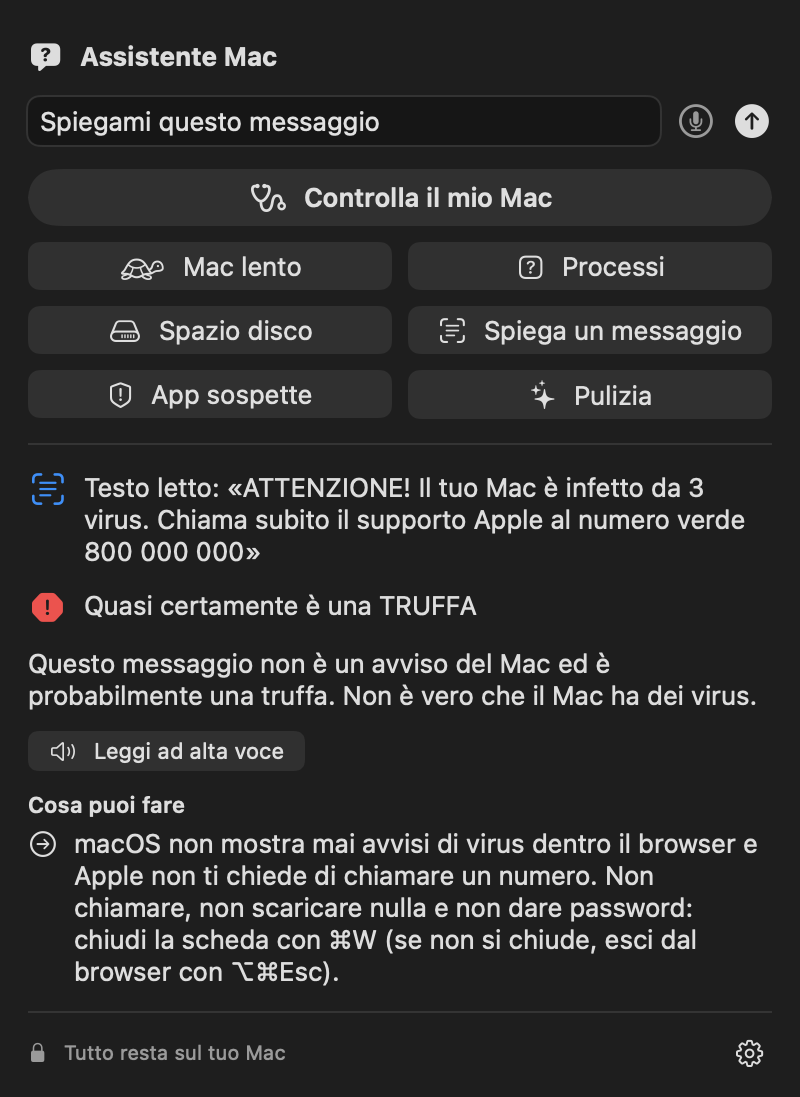
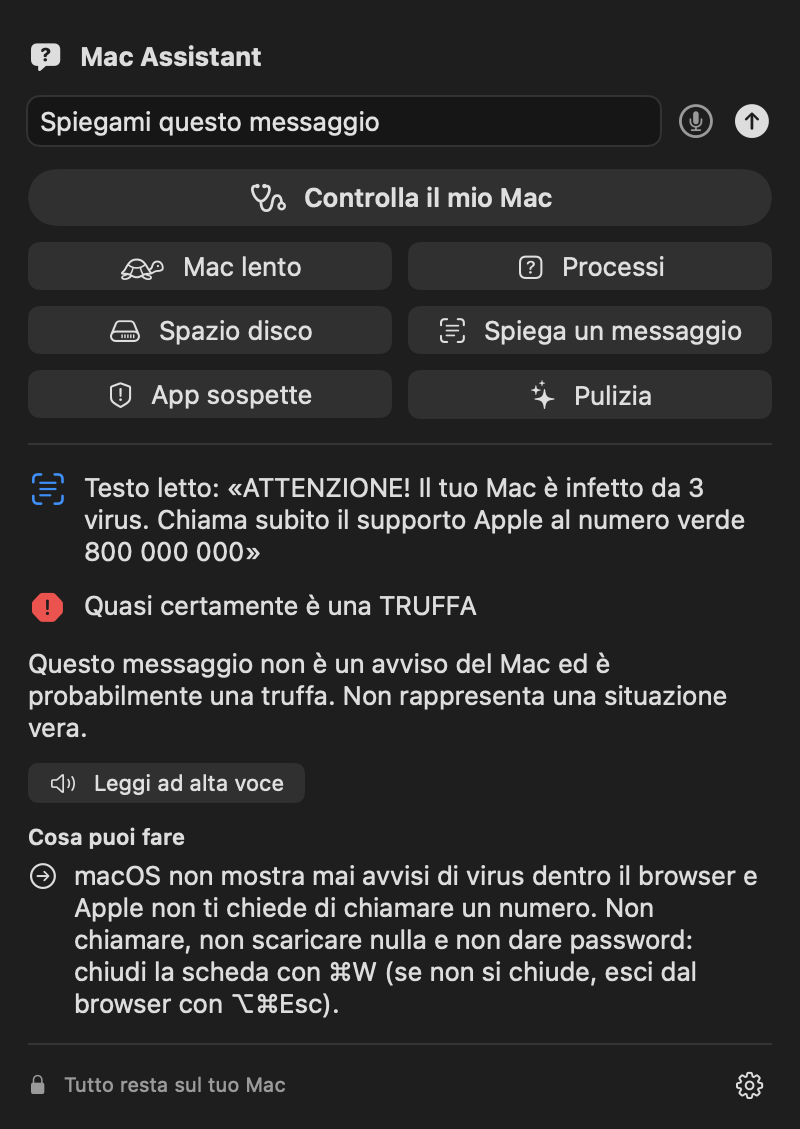
Nome dell'app: Mac Assistant

diff --git a/Sources/AssistenteMac/AssistenteMacApp.swift b/Sources/AssistenteMac/AssistenteMacApp.swift
@@ -23,7 +23,7 @@ struct AssistenteMacApp: App {
         } label: {
             // Con un avviso attivo l'icona cambia: si capisce senza aprire nulla.
             Image(systemName: model.alerts.active.isEmpty ? "questionmark.bubble" : "exclamationmark.bubble.fill")
-                .accessibilityLabel(model.alerts.active.isEmpty ? "Assistente Mac" : L.t("ui.menubar.alert.a11y"))
+                .accessibilityLabel(model.alerts.active.isEmpty ? "Mac Assistant" : L.t("ui.menubar.alert.a11y"))
         }
         .menuBarExtraStyle(.window)
     }

diff --git a/Sources/AssistenteMac/ContentView.swift b/Sources/AssistenteMac/ContentView.swift
@@ -103,7 +103,7 @@ struct ContentView: View {
     }
 
     private var header: some View {
-        Label("Assistente Mac", systemImage: "questionmark.bubble.fill")
+        Label("Mac Assistant", systemImage: "questionmark.bubble.fill")
             .font(.headline)
     }
 

diff --git a/README.md b/README.md
@@ -1,8 +1,8 @@
 <p align="center">
-  <img src="docs/icona.png" width="128" alt="Assistente Mac icon">
+  <img src="docs/icona.png" width="128" alt="Mac Assistant icon">
 </p>
 
-<h1 align="center">Assistente Mac</h1>
+<h1 align="center">Mac Assistant</h1>
 
 <p align="center">
   <b>A friendly Mac assistant that lives in your menu bar.</b><br>
@@ -34,7 +34,7 @@
 ## Why
 
 Most people don't know why their Mac is slow, what `kernel_task` is, where 60 GB of
-"System Data" came from, or whether that scary pop-up is real. Assistente Mac answers
+"System Data" came from, or whether that scary pop-up is real. Mac Assistant answers
 those questions in plain language, **without sending anything off your Mac**, without an
 account and without API keys.
 
@@ -85,13 +85,13 @@ finds, and suggests what *you* can do. It never quits apps or deletes files on i
 You only need the **Command Line Tools** (`xcode-select --install`); Xcode is optional.
 
 ```sh
-git clone https://github.com/MigatteNoAlecs/assistente-mac.git
-cd assistente-mac
-./scripts/crea-app.sh                 # builds build/AssistenteMac.app
-open build/AssistenteMac.app
+git clone https://github.com/MigatteNoAlecs/mac-assistant.git
+cd mac-assistant
+./scripts/crea-app.sh                 # builds "build/Mac Assistant.app"
+open "build/Mac Assistant.app"
 ```
 
-Tip: move `AssistenteMac.app` to **Applications** before turning on "Open when the Mac starts".
+Tip: move `Mac Assistant.app` to **Applications** before turning on "Open when the Mac starts".
 The app is ad-hoc signed (not notarized yet): the first time, open it with right-click → Open.
 
 For development:
@@ -198,7 +198,7 @@ tokens or private URLs. Run `./scripts/test.sh` before opening a pull request.
 
 ## 🇮🇹 Italiano
 
-**Assistente Mac** è un assistente per il Mac che vive nella barra dei menu. Fai una domanda
+**Mac Assistant** è un assistente per il Mac che vive nella barra dei menu. Fai una domanda
 sul tuo Mac **nella tua lingua** e ricevi una risposta chiara, **tutto sul Mac**: niente dati
 inviati, niente account, niente chiavi API. È pensato per chi non è esperto e non tocca nulla
 da solo: legge, spiega e suggerisce.
@@ -229,9 +229,9 @@ macOS 27 o successivo con Apple Silicon e Apple Intelligence attiva (senza, rest
 controlli e i consigli, ma non la spiegazione scritta dall'AI). Bastano i Command Line Tools:
 
 ```sh
-git clone https://github.com/MigatteNoAlecs/assistente-mac.git
-cd assistente-mac
-./scripts/crea-app.sh && open build/AssistenteMac.app
+git clone https://github.com/MigatteNoAlecs/mac-assistant.git
+cd mac-assistant
+./scripts/crea-app.sh && open "build/Mac Assistant.app"
 ```
 
 Sposta l'app in **Applicazioni** prima di attivare "Apri all'accensione". L'app non è ancora
